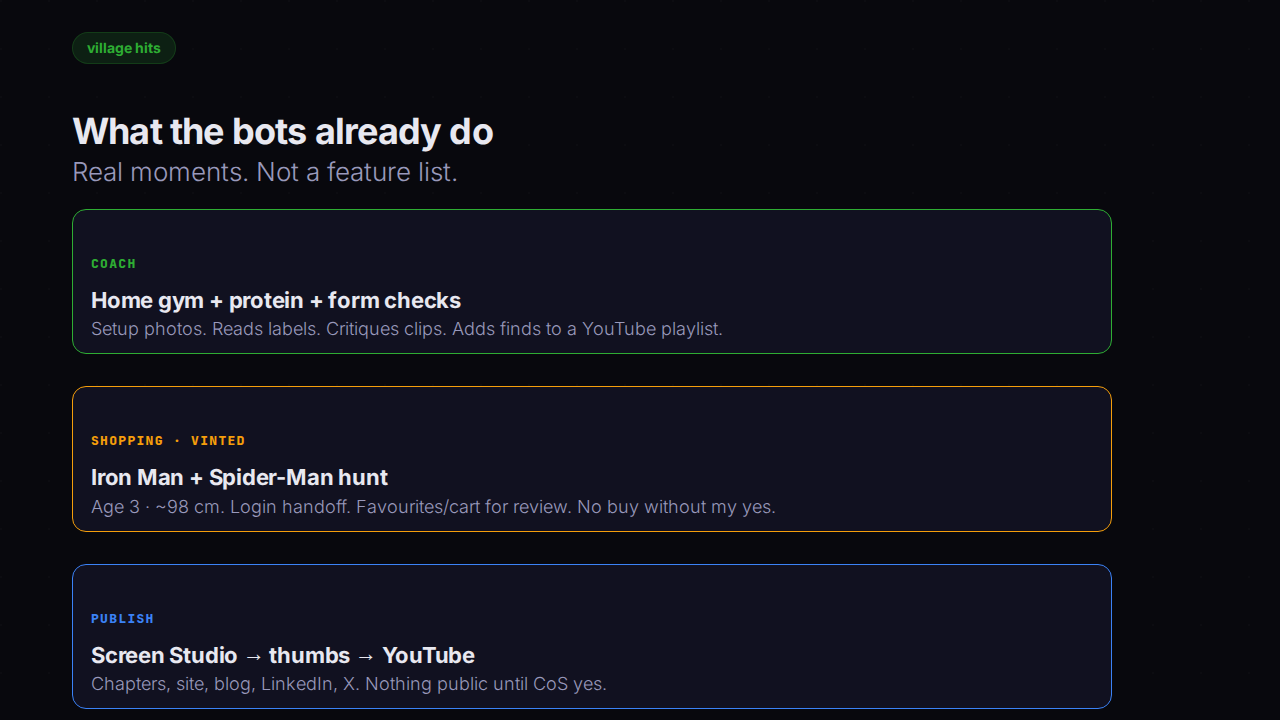
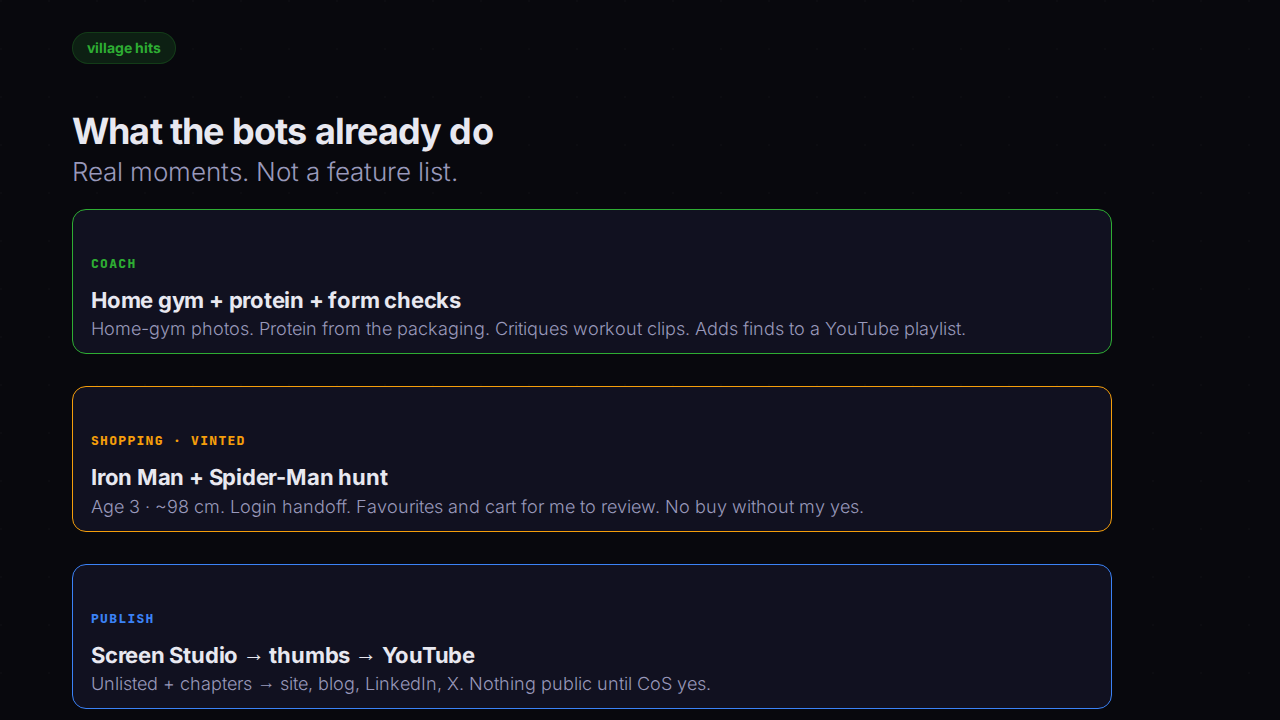
polish: village hits coach / Vinted / publish details
Align CoS moments on the greatest-hits slide and re-verify at 1280x720.

Changed region(s): [[0.0625, 0.4278, 0.75, 0.4889], [0.0938, 0.9167, 0.5625, 0.9778], [0.3438, 0.6722, 0.6875, 0.7333]]

diff --git a/infobip-shift-2026-agentic-developer/slides/07b-village-hits.md b/infobip-shift-2026-agentic-developer/slides/07b-village-hits.md
@@ -14,17 +14,17 @@ class: devsum-slide
   <div class="task-card" style="border-color:var(--accent);padding:12px 18px">
     <span class="task-id" style="color:var(--accent)">coach</span>
     <h3 style="font-size:22px;margin-top:2px">Home gym + protein + form checks</h3>
-    <p style="font-size:18px;margin:4px 0 0">Setup photos. Reads labels. Critiques clips. Adds finds to a YouTube playlist.</p>
+    <p style="font-size:18px;margin:4px 0 0">Home-gym photos. Protein from the packaging. Critiques workout clips. Adds finds to a YouTube playlist.</p>
   </div>
   <div class="task-card" style="border-color:var(--orange);padding:12px 18px">
     <span class="task-id" style="color:var(--orange)">shopping · Vinted</span>
     <h3 style="font-size:22px;margin-top:2px">Iron Man + Spider-Man hunt</h3>
-    <p style="font-size:18px;margin:4px 0 0">Age 3 · ~98 cm. Login handoff. Favourites/cart for review. No buy without my yes.</p>
+    <p style="font-size:18px;margin:4px 0 0">Age 3 · ~98 cm. Login handoff. Favourites and cart for me to review. No buy without my yes.</p>
   </div>
   <div class="task-card" style="border-color:var(--blue);padding:12px 18px">
     <span class="task-id" style="color:var(--blue)">publish</span>
     <h3 style="font-size:22px;margin-top:2px">Screen Studio → thumbs → YouTube</h3>
-    <p style="font-size:18px;margin:4px 0 0">Chapters, site, blog, LinkedIn, X. Nothing public until CoS yes.</p>
+    <p style="font-size:18px;margin:4px 0 0">Unlisted + chapters → site, blog, LinkedIn, X. Nothing public until CoS yes.</p>
   </div>
 </div>
 
